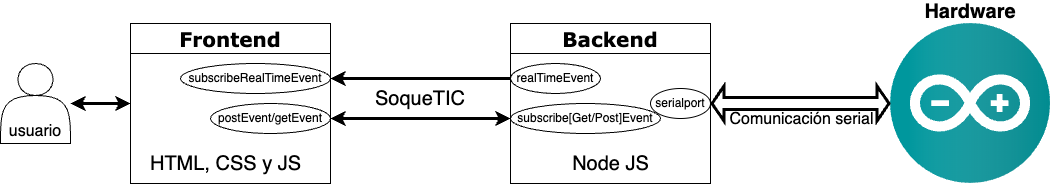
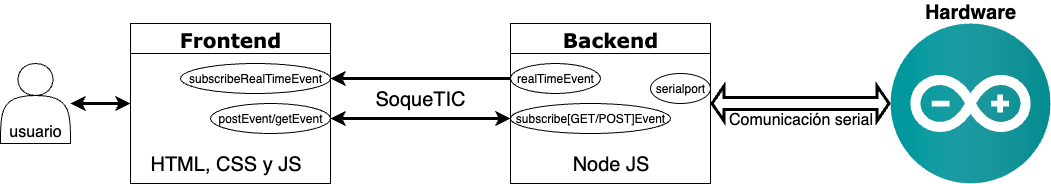
fix(soquetic): diagrams

diff --git a/cheatsheets/soquetic.md b/cheatsheets/soquetic.md
@@ -169,7 +169,7 @@ A continuación exponemos y explicamos los casos de uso de SoqueTIC más comunes
 
 Como el usuario es quien realiza la mayoría de las acciones, y este interactúa con el frontend, es generalmente el frontend quien inicia la comunicación con el backend. Mostremos el caso en el que el frontend le envía cierta información al backend y hace algo con la respuesta. El siguiente diagrama modela esa situación, en donde el frontend usa la función [`postEvent`](#postevent) y el backend la función [`subscribePOSTEvent`](#subscribepostevent):
 
-<div style="display:flex;justify-content:center"><img src="/assets/images/soquetic/postData.png" alt="Diagrama Hardware con SoqueTIC"></div>
+<div style="display:flex;justify-content:center"><img src="/assets/images/soquetic/postEvent.png" alt="Diagrama Hardware con SoqueTIC"></div>
 
 La función `postEvent` envía el evento de nombre *type* con el parámetro *data* al backend. En el diagrama, type es "envio" y la data es `dataS`. `dataS` puede ser de cualquier tipo. Para enviar más de una sola cosa, usar un tipo de datos que modele conjuntos, como listas u objetos.
 
@@ -190,7 +190,7 @@ form.addEventListener("submit", (e) => {
   }
 });
 ```
-Se puede ver como cuando se hace "submit" del formulario (apretar el botón que hace submit), se llama a una función que ejecuta postData. Esta entonces envía el evento "message" con un objeto de un único atributo, *msg*, que tiene lo que el usuario escribió en el input (`input.value`).
+Se puede ver como cuando se hace "submit" del formulario (apretar el botón que hace submit), se llama a una función que ejecuta postEvent. Esta entonces envía el evento "message" con un objeto de un único atributo, *msg*, que tiene lo que el usuario escribió en el input (`input.value`).
 
 Del lado del backend, hay un onEvent apropiado esperándolo. A continuación el código:
 ```javascript
@@ -199,7 +199,7 @@ subscribePOSTEvent("message", (data) => {
   return { msg: `Mensaje recibido: ${data.msg}` };
 });
 ```
-En este caso, al ejecutarse postData en el frontend, el backend llama a su callback recibiendo el objeto en el parámetro *data*. Lo muestra por consola y retorna **otro** objeto con un único atributo, también de nombre *msg*, que contiene el string "Mensaje recibido: " + el string recibido en el atributo *msg* del objeto enviado por el frontend.
+En este caso, al ejecutarse postEvent en el frontend, el backend llama a su callback recibiendo el objeto en el parámetro *data*. Lo muestra por consola y retorna **otro** objeto con un único atributo, también de nombre *msg*, que contiene el string "Mensaje recibido: " + el string recibido en el atributo *msg* del objeto enviado por el frontend.
 
 Al retornar este objeto, el frontend lo recibe llamando a su callback y pasándoselo por parámetro. En este caso, toma el parámetro en *data*, y con ese modifica el *innerText* de un `<p>` previamente creado con el atributo *msg* del objeto con el que respondió el backend.
 
